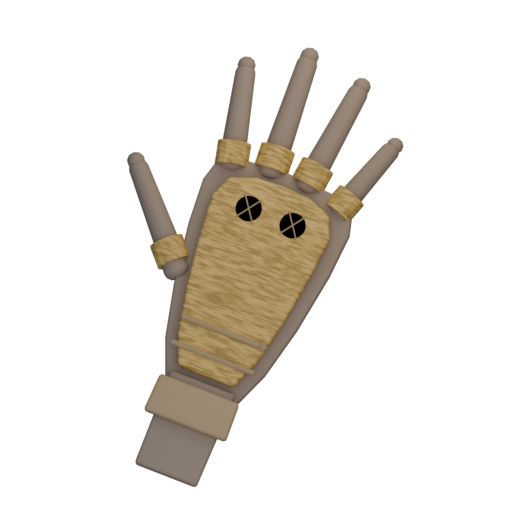
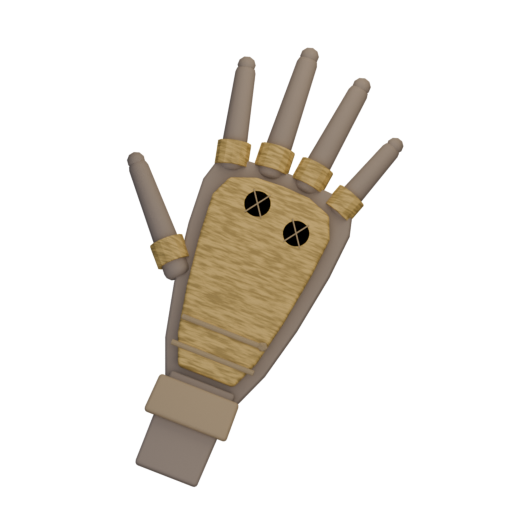
glove: the two-seat pair rides the knuckle line (Alex picked C)
A pair level in the model rendered as two equal discs almost side by side under the
off-axis camera and read like eyes; three seats never did, because the arc carried
them. The two-seat layout now follows the same arc down toward the little finger.
Three frames re-rendered at 160; the art table re-probed and checked against the
voids, with the old centres confirmed to miss.

Claude-Session: https://claude.ai/code/session_013mMvaZRgZtRKk62MfWKgFe

Changed region(s): [[0.4375, 0.375, 0.625, 0.5]]

diff --git a/src/app/shimmer/play3d/vessel-art.tsx b/src/app/shimmer/play3d/vessel-art.tsx
@@ -21,8 +21,9 @@
  * or a camera moves — nothing here can notice on its own.
  *  · bracelet: identical across tiers to 0.2px (the seat sits on the ring; the tier only changes the
  *    strand). The arc is NOT symmetric about the front seat: the camera is off-axis on purpose.
- *  · glove: tier-independent (every tier's pad sits at the same Z0). The two-seat pair projects to
- *    DIFFERENT pixel rows from the SAME world y — off-axis camera again, world x leaks into image y.
+ *  · glove: tier-independent (every tier's pad sits at the same Z0). ⚠ Off-axis camera: world x leaks
+ *    into image y, so a pair level in the model is NOT level on screen (that is why the two-seat layout
+ *    was re-cut along the knuckle line — a level-on-screen pair read as eyes).
  */
 
 import { VESSEL_CAP, type Vessel } from './gems'
@@ -40,7 +41,7 @@ const BRACELET_PNG_SEAT_R = 17.6
 
 const GLOVE_PNG_SEATS: Record<1 | 2 | 3, readonly (readonly [number, number])[]> = {
   1: [[271.2, 215.7]],
-  2: [[248.7, 208.6], [292.6, 225.7]],
+  2: [[257.5, 203.8], [296.1, 233.6]],   // layout C (Alex, 2026-09-09): the pair rides the knuckle line
   3: [[230.5, 211.4], [273.6, 210.0], [303.7, 239.9]],
 }
 /** a seat's radius in the glove render's 512px space (r 0.085 under ortho_scale 3.25) */

diff --git a/tools/render/vessel_glove.py b/tools/render/vessel_glove.py
@@ -89,7 +89,10 @@ CUFF_PTS = [
 SEAT_LAYOUT = {
     0: [],                     # an UNCUT glove: no word yet, no seat (`move: null`) — same state as the bracelet's s0
     1: [(0.0, 0.26)],
-    2: [(-0.15, 0.25), (0.15, 0.25)],
+    # ★ C, Alex's pick 2026-09-09: the pair follows the KNUCKLE LINE down toward the little finger. Level
+    # in the model rendered as two equal discs almost side by side under the off-axis camera and read
+    # like EYES; three seats never did, because the arc carried them. So the pair rides the same arc.
+    2: [(-0.11, 0.30), (0.19, 0.21)],
     3: [(-0.25, 0.19), (0.0, 0.30), (0.25, 0.19)],
 }
 
